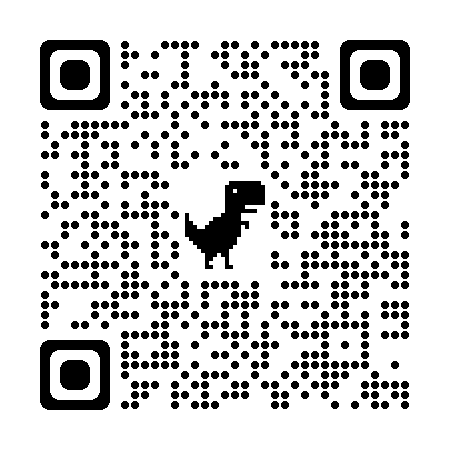
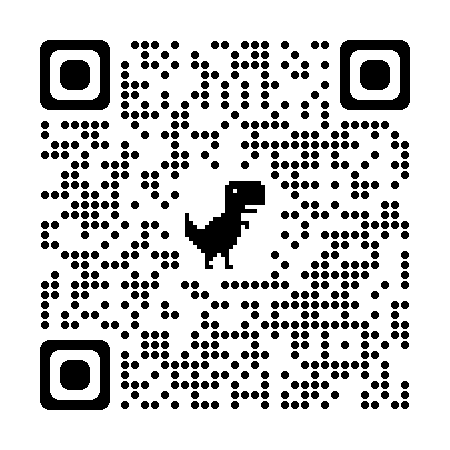
qr code and readme updates

diff --git a/README.md b/README.md
@@ -1,4 +1,4 @@
-# slides for "Strict Types in JavaScript" talk
+# slides for "Multiple Inheritance in JavaScript" talk
 
 Made on mythographica's [presentations framework](https://github.com/mythographica/slider)
 
@@ -12,7 +12,7 @@ git clone
 
 ## 2. go to the distro dir
 ```bash
-cd ./BeerJS_Voronezh_2021
+cd ./HolyJSMoscow2021
 ```
 
 ## 3. install the dependencies
@@ -38,12 +38,12 @@ navigate your chrome to `chrome://inspect`, or do this kind of things for your p
 navigate your browser to 
 
 ```bash
-http://localhost:3001/BeerJS_Voronezh_2021
+http://localhost:3001/HolyJSMoscow2021
 ```
 or
 
 ```bash
-https://wentout.github.io/BeerJS_Voronezh_2021/
+https://wentout.github.io/HolyJSMoscow2021/
 ```
 
 ### fin
